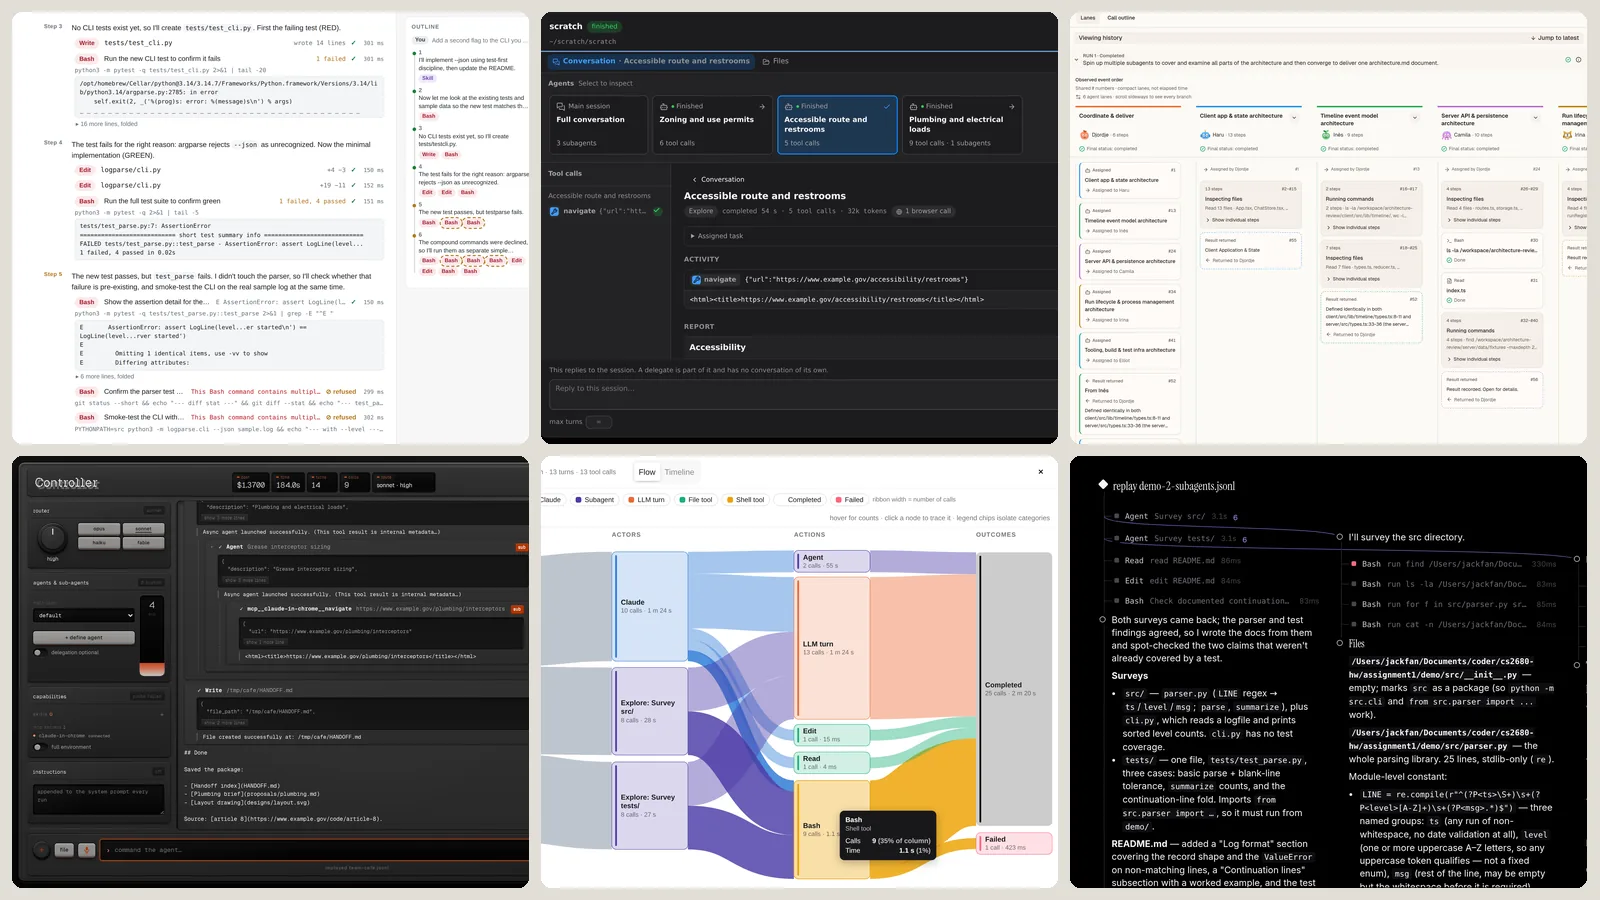
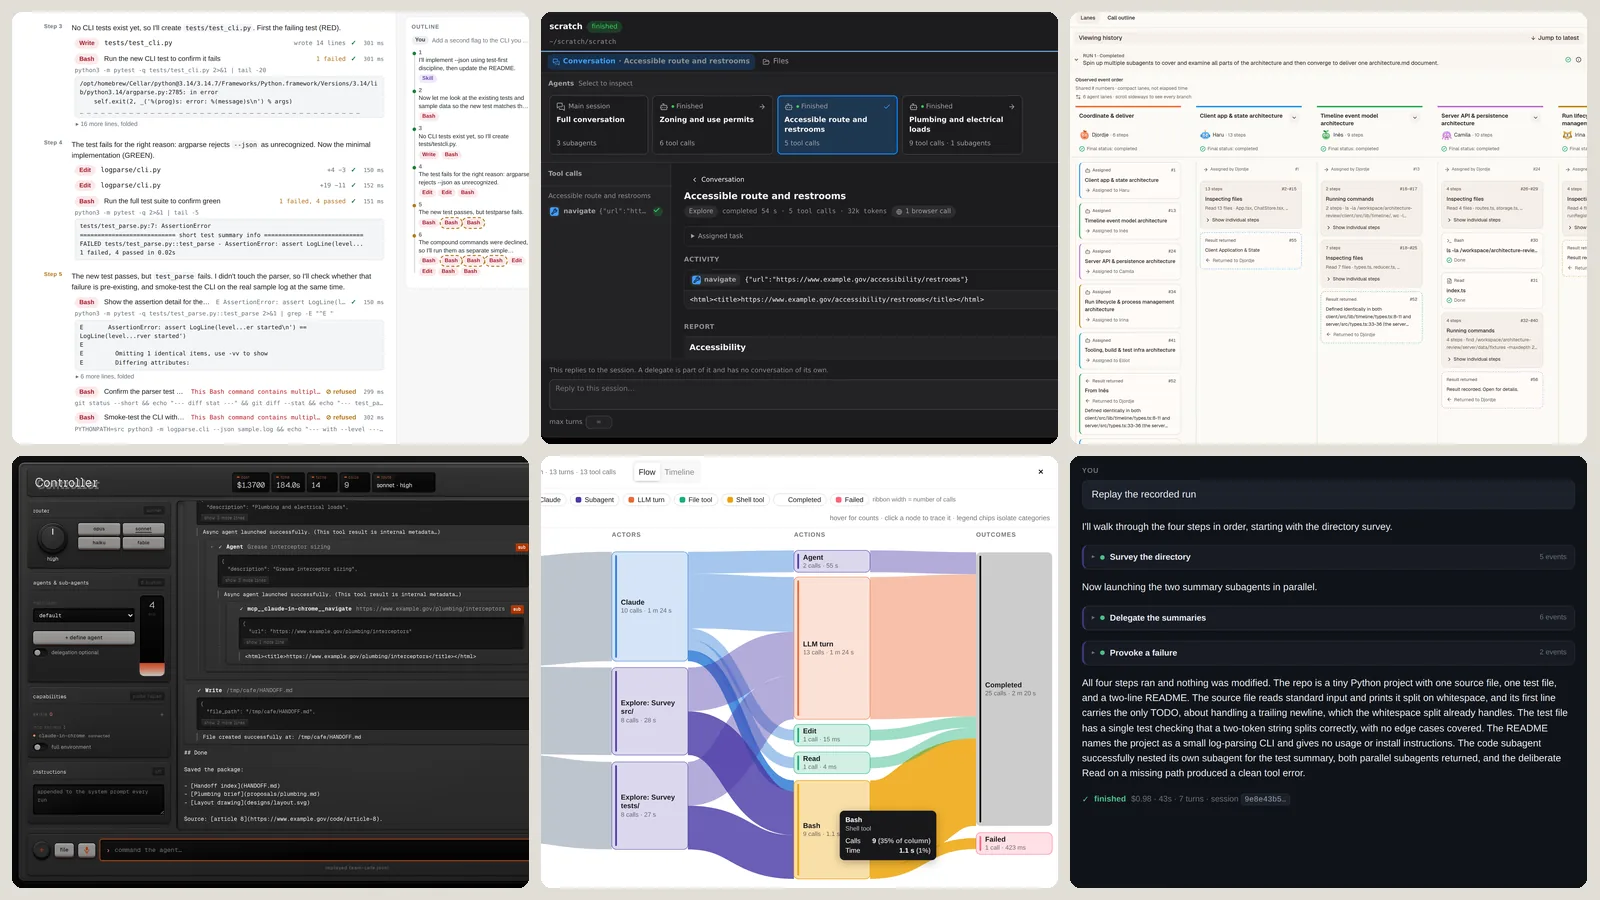
Assignment1(cs2680-staff): Remove Trajectory from the top-designs post (#2)
Drop the Trajectory section and its figure, so the post covers eight
apps. The title and counts change to eight, and AIPatrol replaces
Trajectory in the cover montage and its caption.

Claude-Session: https://claude.ai/code/session_01DzyXDB3i4HorwAMhyEEsnr

Changed region(s): [[0.6562, 0.4978, 1.0, 0.9956]]

diff --git a/content/2026/assignment1/top-designs/index.md b/content/2026/assignment1/top-designs/index.md
@@ -1,5 +1,5 @@
 ---
-title: "Nine ways to watch a coding agent"
+title: "Eight ways to watch a coding agent"
 date: 2026-10-04
 authors: ["cs2680-staff"]
 summary: "The standout Assignment 1 interfaces: where a run's time went, what the agent meant to do, how subagents split the work, and controls you can see."
@@ -7,7 +7,7 @@ tags: ["agent-ui", "observability", "subagents", "showcase"]
 draft: false
 cover: "cover.webp"
 coverAlt: "A grid of six screenshots of student-built apps for watching Claude Code runs."
-coverCaption: "Six of the nine apps below. Top: Intent Timeline, Mission Control, Patchwork. Bottom: Controller, Sankey Flow, Trajectory."
+coverCaption: "Six of the eight apps below. Top: Intent Timeline, Mission Control, Patchwork. Bottom: Controller, Sankey Flow, AIPatrol."
 toc: true
 ---
 
@@ -18,11 +18,11 @@ it; and get an outline of the whole trajectory.
 
 We went through all 68 demos. Most built the same sensible thing: a chat-like log of
 collapsible tool-call cards, an outline beside it and a cost line underneath, much like the
-assignment's mockup. That is a perfectly good answer. The nine designs below went further. Each
+assignment's mockup. That is a perfectly good answer. The eight designs below went further. Each
 one asks what the person supervising an agent actually needs to see, and answers with something
 a log of tool calls can't show on its own.
 
-All nine are in [CS2680-Assignment1-Mads-Lens](https://github.com/HarvardMadSys/CS2680-Assignment1-Mads-Lens),
+All eight are in [CS2680-Assignment1-Mads-Lens](https://github.com/HarvardMadSys/CS2680-Assignment1-Mads-Lens),
 one folder per app. Each app bundles recorded runs, so you can try it without installing Claude
 Code or spending any usage.
 
@@ -138,19 +138,6 @@ what it kept: "Run stopped. Everything recorded before this point is kept."
 ![Two subagent cards side by side, the left one containing two more nested subagents](liu-columns.webp "Fork View replaying its bundled parallel-deep example: two surveys run side by side, and each one delegates further inside its own column.")
 
 Try it: [`fork-view/`](https://github.com/HarvardMadSys/CS2680-Assignment1-Mads-Lens/tree/main/fork-view)
-
-### Jack Fan: Trajectory
-
-Jack Fan's Trajectory is the most restrained design here: a black page, a serif masthead, one
-accent color. Prompts are diamonds on a thin rail, and every tool call is a single line with
-the agent's own description and a duration. When the agent starts subagents in parallel, each
-Agent row curves off into a lane of its own, so their work reads side by side with the
-parent's. A running subagent shows its elapsed time against an estimate drawn from earlier
-runs.
-
-![A black interface where two Agent rows connect through curved purple lines to two lanes of tool calls on the right](fan-lanes.webp "Trajectory replaying a recorded run: each Agent row curves off into its own lane.")
-
-Try it: [`trajectory/`](https://github.com/HarvardMadSys/CS2680-Assignment1-Mads-Lens/tree/main/trajectory)
 
 ### Saul Richardson: Mission Control
 
